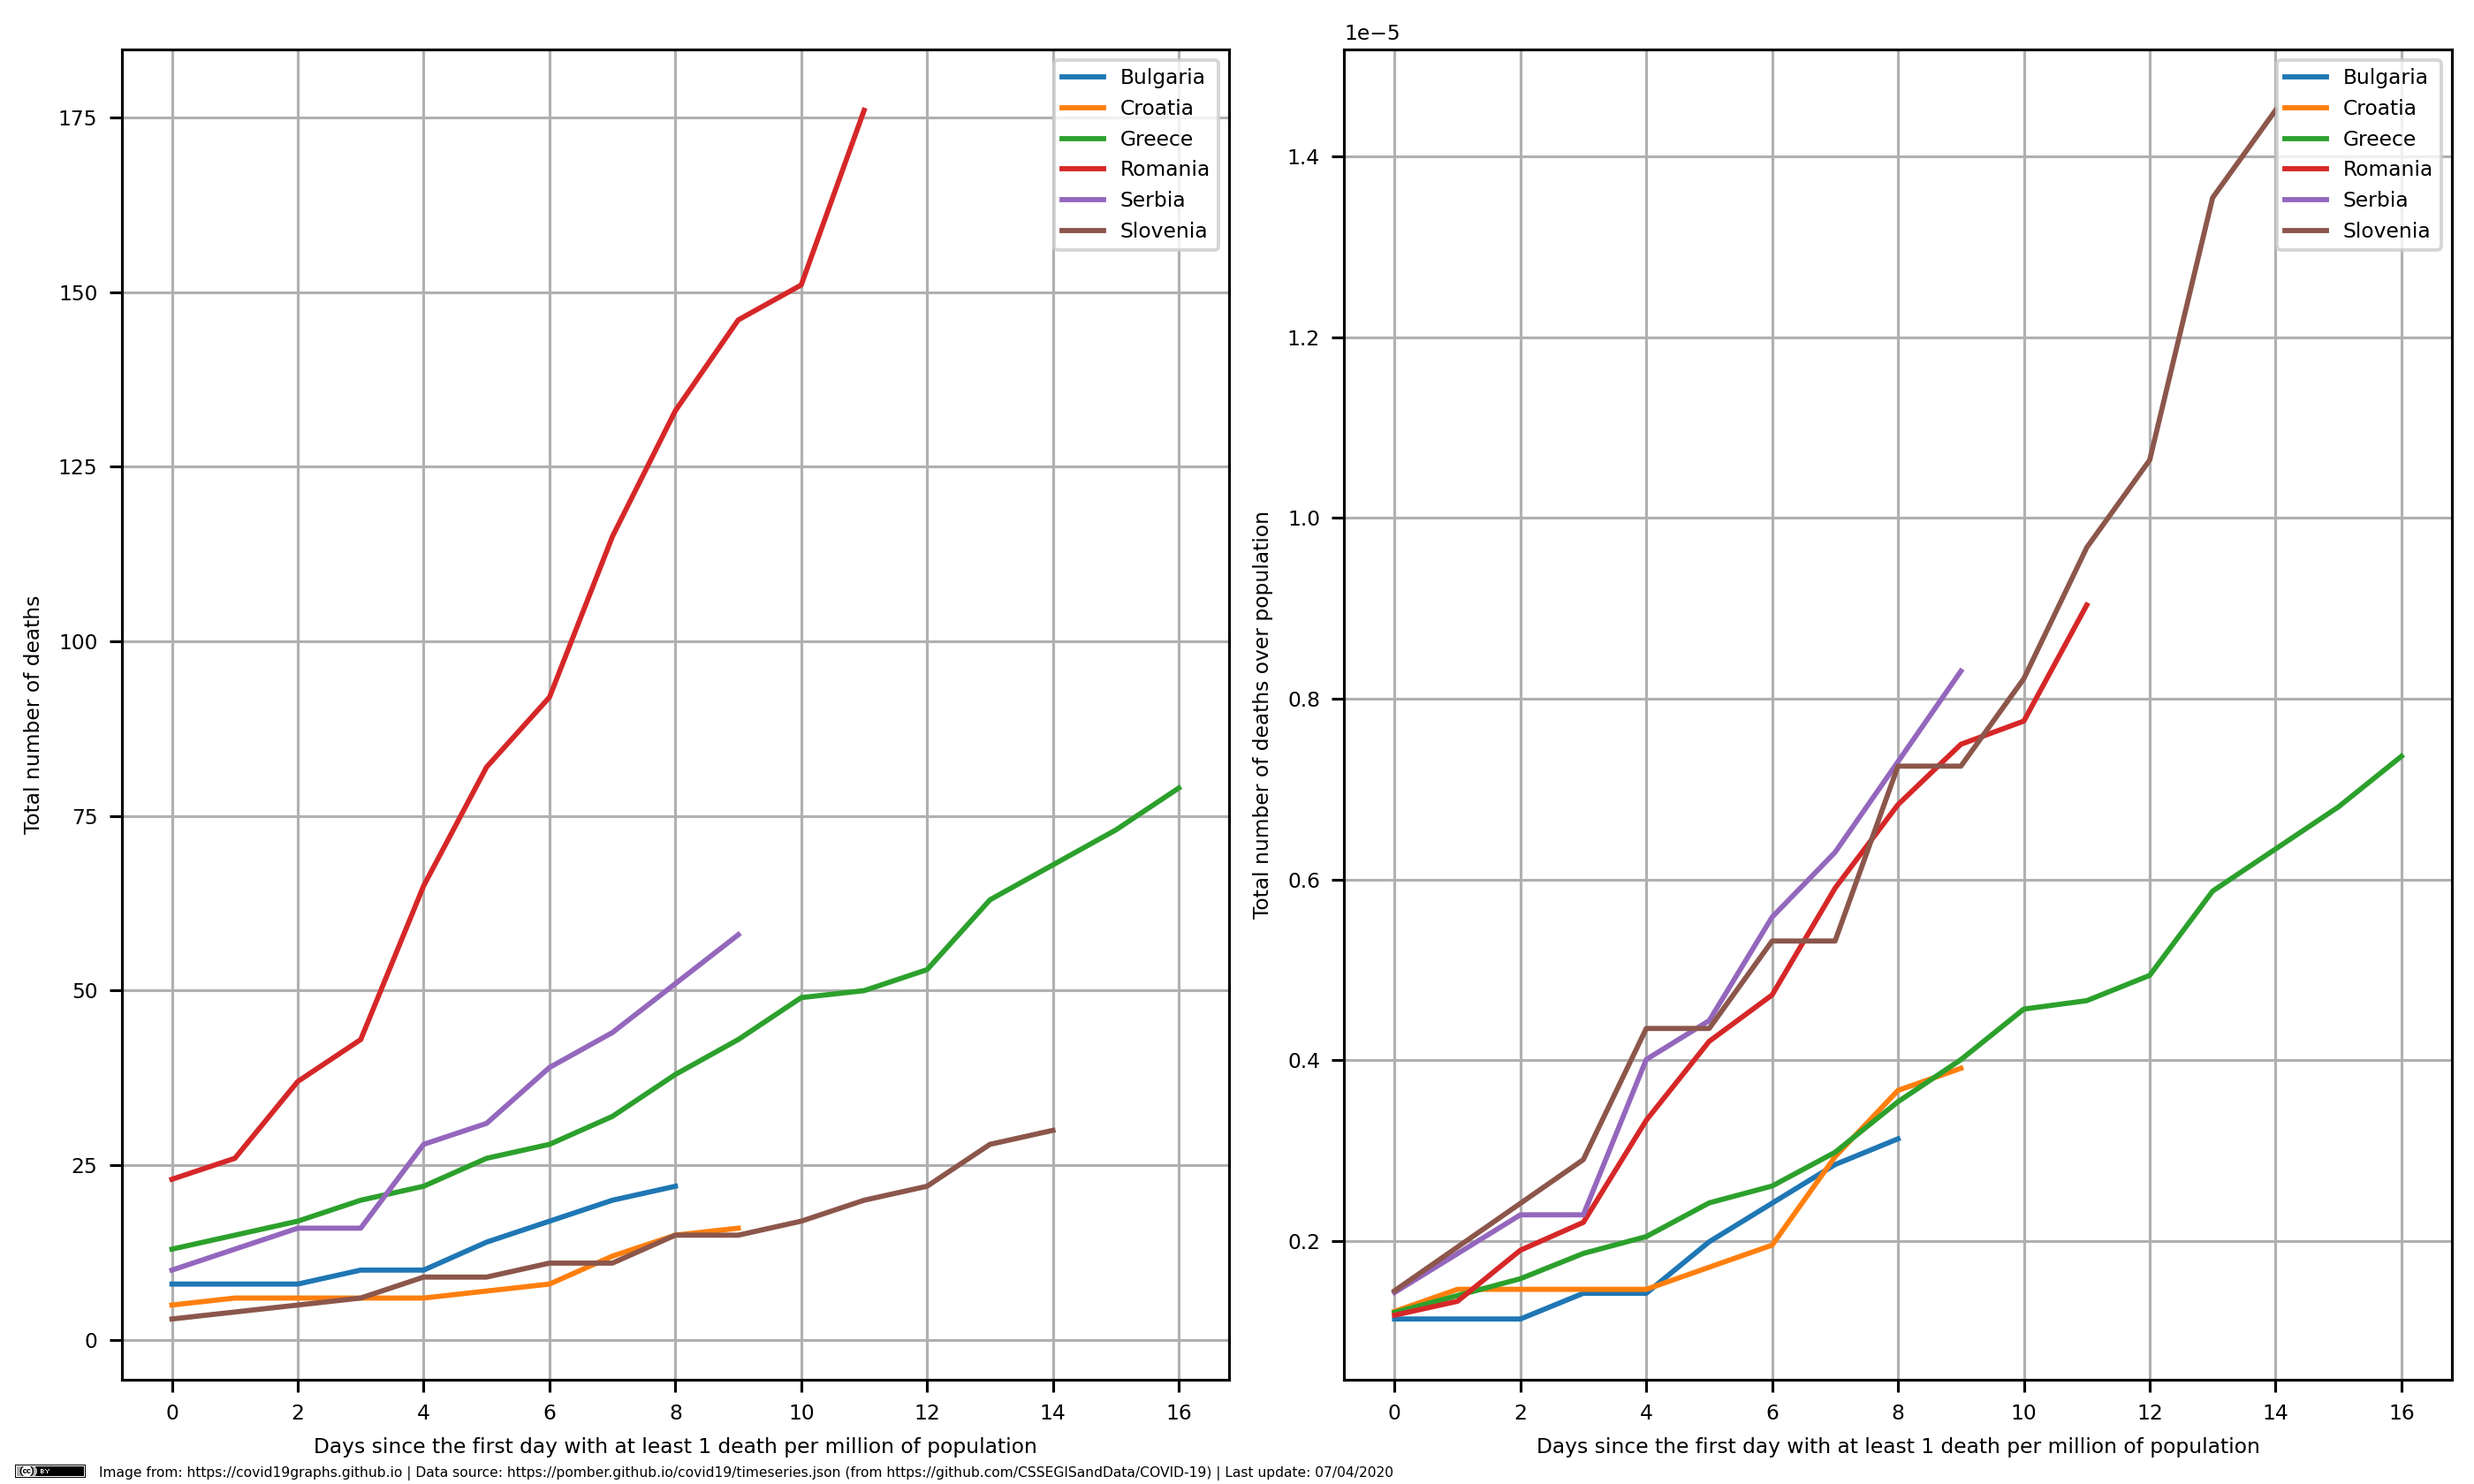
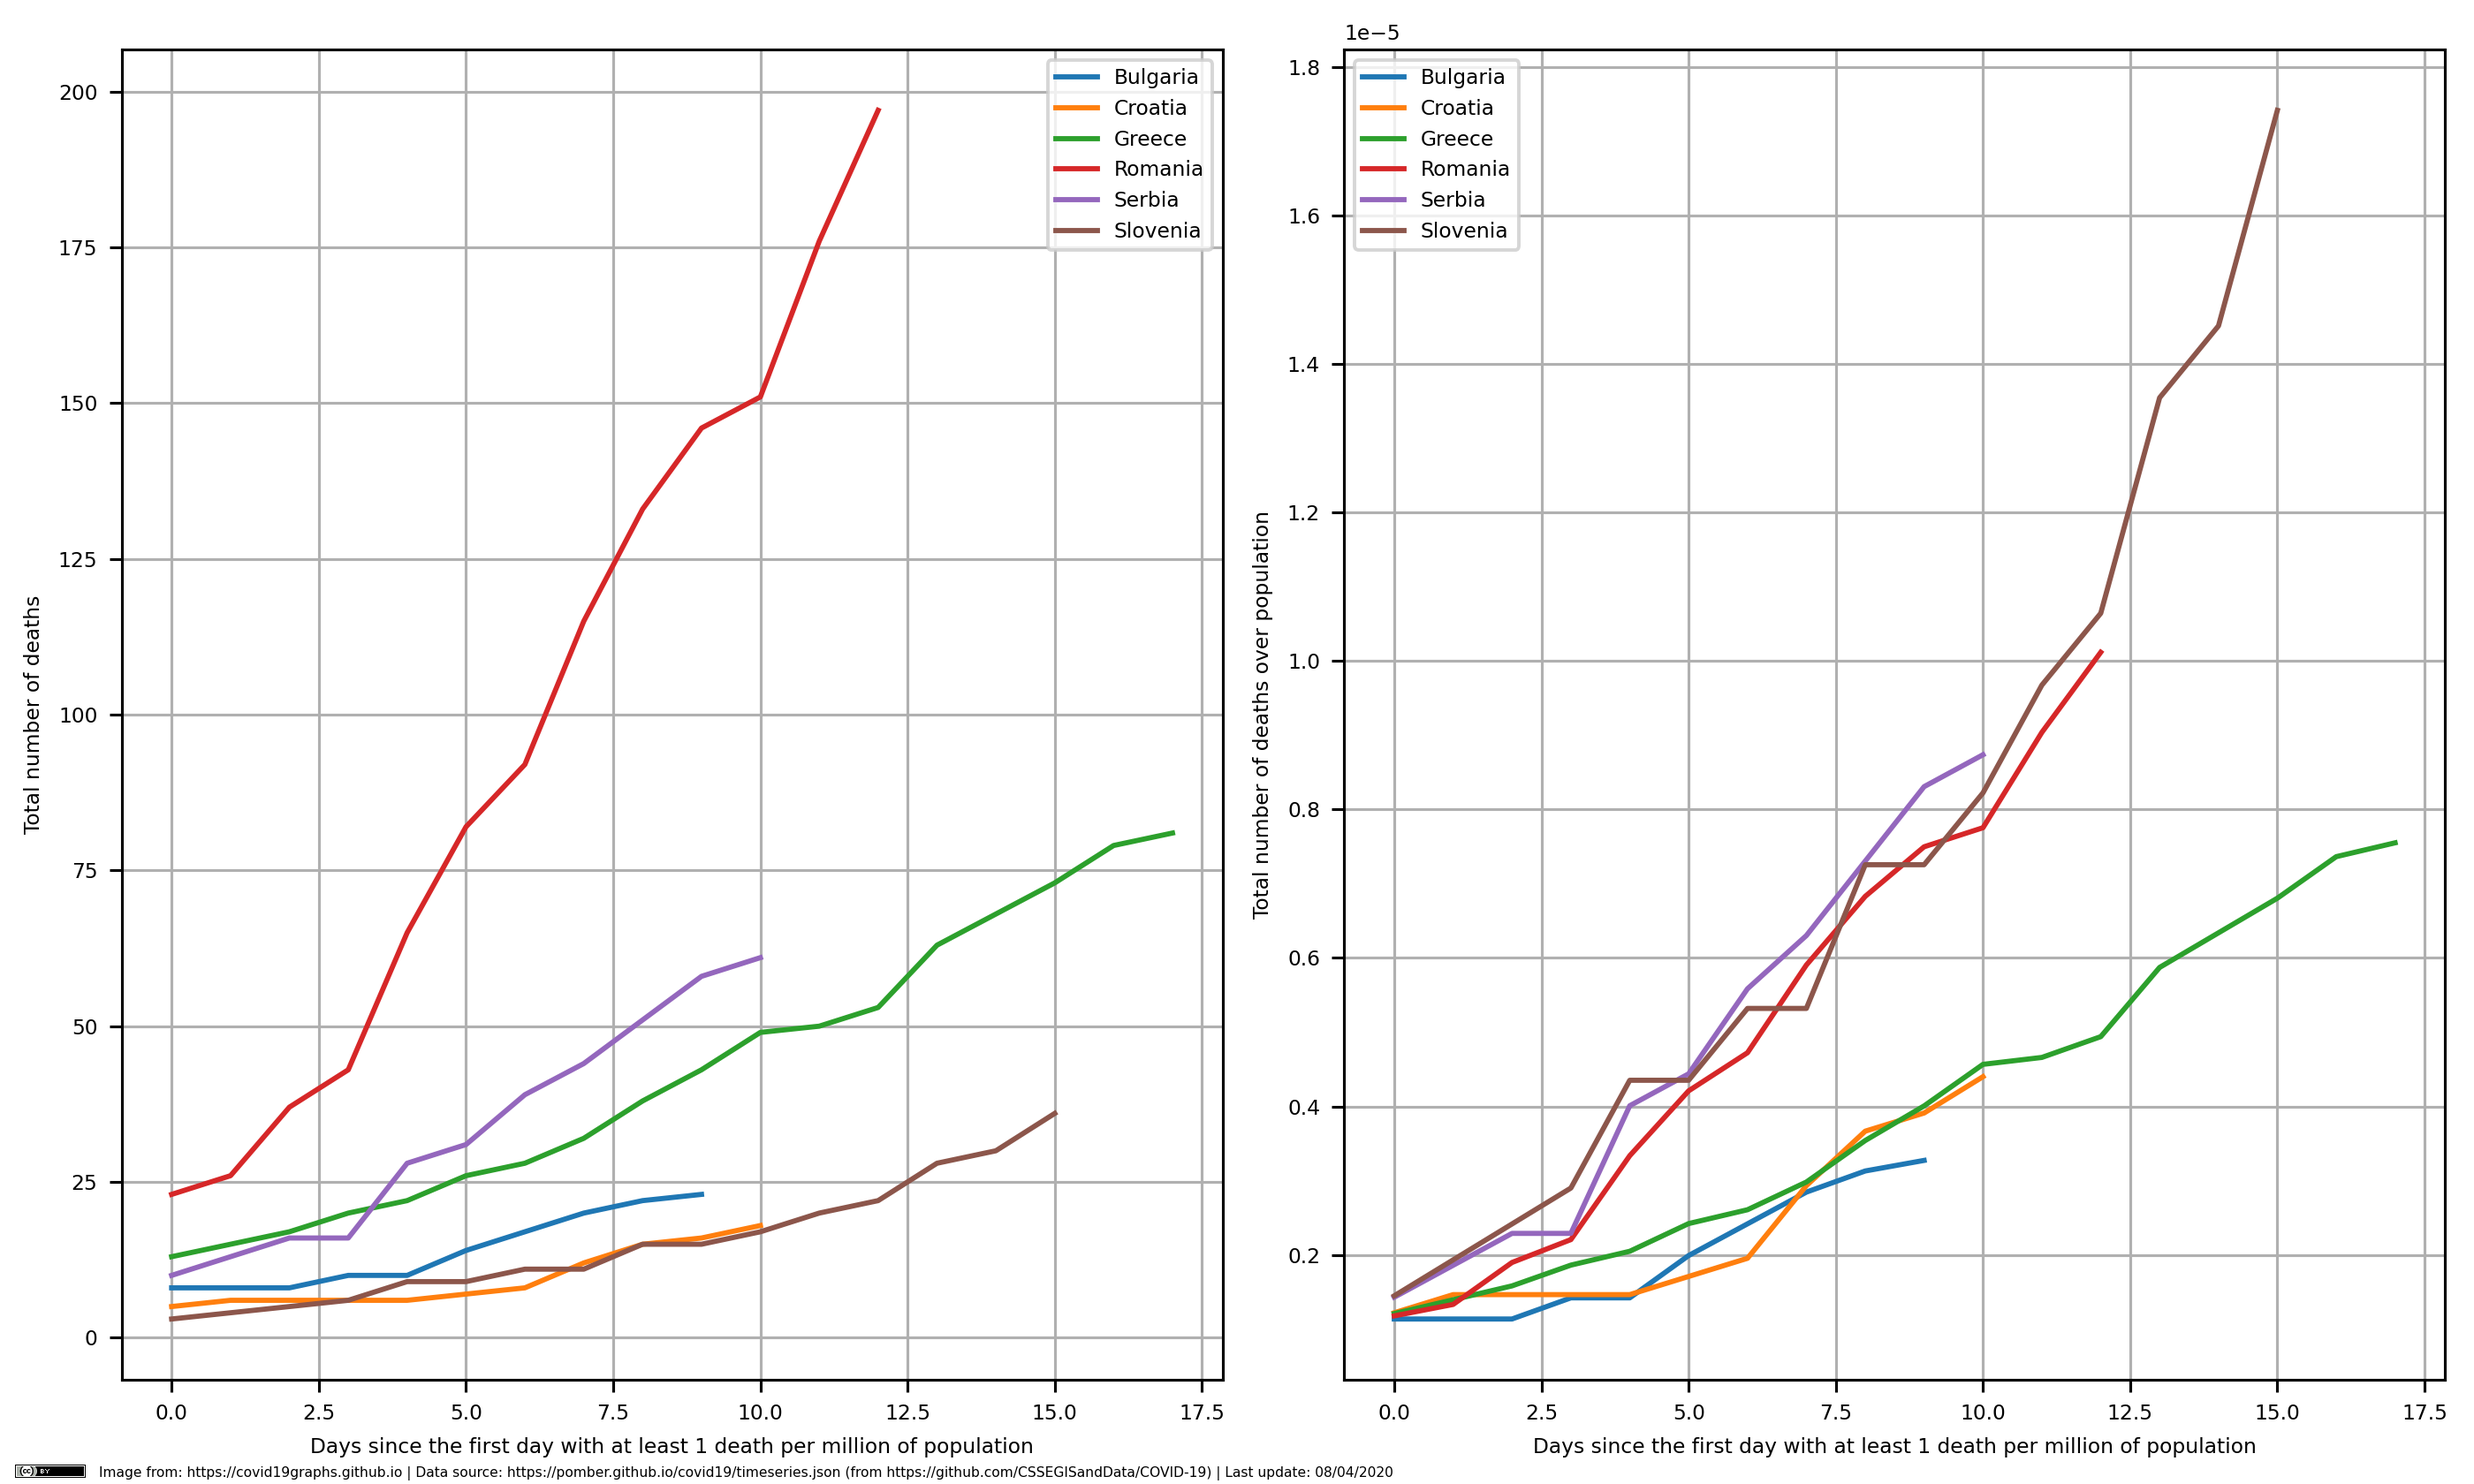
europe day1 and update

diff --git a/index.html b/index.html
@@ -12,7 +12,7 @@
 </head>
 
 <body>
-  <img src="europe.png">
+  <img src="europe_1dpm.png">
 
   <img src="balkans.png">
 
@@ -21,5 +21,8 @@
   <img src="nordic.png">
 
   <img src="latin_america.png">
+
+  <img src="europe.png">
+
 </body>
 </html>
